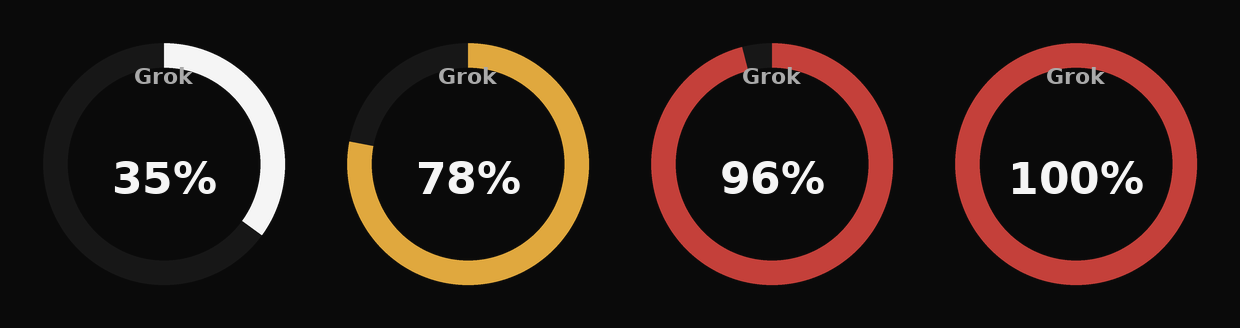
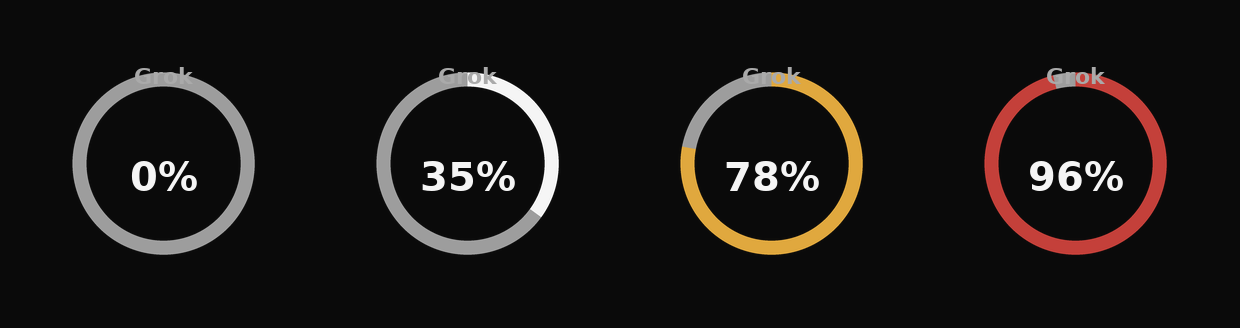
Reapply PR #6's ring-sizing fix on top of #4/#5 (1.0.2)
PR #6 (fix/smaller-thinner-ring, parkour86) shrinks the ring so it no
longer runs under the top/bottom labels, but its base predates #4 and
#5 which already rewrote the same _render method (percent inference,
track color) - GitHub reports it as mergeable_state: dirty. The
underlying fix is sound and well-documented (before/after screenshots,
clear rationale), so reapplying it by hand onto the current file
instead of asking for a manual rebase:

- RING_THICKNESS 90 -> 72, RING_INSET 70 -> 48, media size 0.97 -> 0.72
  so the ring sits around the percentage instead of under the labels.
- Center font tiered by digit count (20/18/15pt) so '100%' still fits
  the smaller hole.
- Regenerated docs/preview.png against the new constants.

Version bumped to 1.0.2 (also covers #4/#5, which landed directly to
main without a version bump); CHANGELOG/README updated accordingly.

diff --git a/actions/GrokUsage/GrokUsage.py b/actions/GrokUsage/GrokUsage.py
@@ -59,8 +59,12 @@ LABEL_OUTLINE = {"outline_width": 2, "outline_color": [*XAI_INK, 190]}
 # its own, so this is a cheap way to avoid a jagged ring on the key.
 RING_CANVAS = 1024
 RING_OUTPUT = 256
-RING_THICKNESS = 90
-RING_INSET = 70
+# Sit around the center % only so the groove does not run under the top
+# "Grok" or bottom time-left labels (it used to be drawn at 97% of the key
+# and ran straight under both). Keep the stroke modest so 10% and 100%
+# still fit in the hole.
+RING_THICKNESS = 72
+RING_INSET = 48
 # Mine Shaft (XAI_SLATE @ 90) composites to ~RGB 17 on a black Stream Deck
 # tile and the unused groove vanishes. Paper at ~160 stays monochrome and
 # reads as a full circle; fill is still opaque 255 so used % stays brighter.
@@ -449,6 +453,13 @@ class GrokUsage(ActionBase):
         else:
             percent = round(float(percent))
         center_text = f"{percent}%"
+        # Wider text needs a smaller font to still fit inside the ring's hole.
+        if percent >= 100:
+            center_size = 15
+        elif percent >= 10:
+            center_size = 18
+        else:
+            center_size = 20
         if percent >= 90:
             color = COLOR_CRIT
         elif percent >= 70:
@@ -457,7 +468,7 @@ class GrokUsage(ActionBase):
             color = COLOR_OK
         # The ring itself already carries the status color, so leave the
         # key's tile background neutral instead of double-signalling.
-        self.set_media(image=render_ring_image(percent, color), size=0.97)
+        self.set_media(image=render_ring_image(percent, color), size=0.72)
         self.set_background_color(COLOR_NONE)
 
         secondary = settings.get("secondary", DEFAULT_SECONDARY)
@@ -477,7 +488,7 @@ class GrokUsage(ActionBase):
             if remaining is not None:
                 bottom_text = self.tr("grok-usage.label.time-left").format(time=humanize_seconds(remaining))
 
-        self.set_center_label(text=center_text, font_size=20, **LABEL_OUTLINE)
+        self.set_center_label(text=center_text, font_size=center_size, **LABEL_OUTLINE)
         self.set_bottom_label(text=bottom_text, font_size=11, **LABEL_OUTLINE)
         return False
 

diff --git a/main.py b/main.py
@@ -47,6 +47,6 @@ class GrokUsagePlugin(PluginBase):
         self.register(
             plugin_name=self.lm.get("plugin.name"),
             github_repo="https://github.com/ENjxzlt/Grok-Usage-Streamcontroller",
-            plugin_version="1.0.1",
+            plugin_version="1.0.2",
             app_version="1.5.0-beta",
         )

diff --git a/README.md b/README.md
@@ -20,7 +20,7 @@ It works by tailing the Grok Build CLI's own local log (`~/.grok/logs/unified.js
 - If the log file has no recent billing entry, the key shows a neutral "No recent billing data" state instead of erroring
 - Pressing the key forces an immediate refresh
 
-> **Note on accuracy:** the percentage comes straight from Grok Build's own billing check, so it should match what the CLI shows you. That said, `creditUsagePercent` itself is only present once there's something to report — a billing period with zero usage so far (confirmed on a fresh Free-tier account) omits the field entirely instead of sending `0`. The plugin treats that specific case (`historyLen: 0`) as a genuine 0% rather than leaving the ring blank; any other case where the field is missing falls back to a neutral "–" instead of guessing. The optional last-turn cost figure is a guess, though: `costUsdTicks`' unit isn't documented, so this assumes 1,000,000,000 ticks = $1 (inferred from the sample value in the originating issue) — treat it as approximate.
+> **Note on accuracy:** the percentage comes straight from Grok Build's own billing check, so it should match what the CLI shows you. That said, `creditUsagePercent` itself is only sent once xAI has something worth reporting — per real log evidence, it's omitted (never sent as `0`) until usage crosses roughly 1% for the period, and then stays present for the rest of that period. Whenever a billing period is known but the field is still omitted, the plugin shows an empty ring + `0%` (i.e. "under ~1%, not yet reported"), which needed a real-world log to get right — see [issue #3](https://github.com/ENjxzlt/Grok-Usage-Streamcontroller/issues/3) if you're curious about the evidence. The optional last-turn cost figure is a separate guess: `costUsdTicks`' unit isn't documented, so this assumes 1,000,000,000 ticks = $1 (inferred from the sample value in the originating issue) — treat it as approximate.
 
 ## Requirements
 

diff --git a/CHANGELOG.md b/CHANGELOG.md
@@ -1,5 +1,13 @@
 # Changelog
 
+## 1.0.2
+
+Real-world fixes from [@parkour86](https://github.com/parkour86) testing against actual Grok Build/SuperGrok installs ([#3](https://github.com/ENjxzlt/Grok-Usage-Streamcontroller/issues/3), [#4](https://github.com/ENjxzlt/Grok-Usage-Streamcontroller/pull/4), [#5](https://github.com/ENjxzlt/Grok-Usage-Streamcontroller/pull/5), [#6](https://github.com/ENjxzlt/Grok-Usage-Streamcontroller/pull/6)):
+
+- **Fixed a wrong 0% inference introduced in 1.0.1.** `historyLen` is not a usage signal — on SuperGrok it's `0` even on billing lines carrying a real `creditUsagePercent` (confirmed against 448/448 entries in a real log). `_infer_percent` now returns `creditUsagePercent` as-is (or `None`); the key shows an empty ring + `0%` whenever a billing period is known but xAI hasn't reported a percent yet (which, per the same log evidence, means "under ~1%", not "no data") — same visual, correct reasoning.
+- **Fixed the unused ring track being invisible on black Stream Deck keys.** It composited to near-black; switched from a dark slate track to a pale, translucent one so the full circle reads correctly, with the used arc still fully opaque so it stays visually brighter.
+- **Shrunk the ring** (media size 0.97 → 0.72, stroke 90 → 72, inset 70 → 48) so it sits around the percentage instead of running underneath the top/bottom labels, with a tiered center font size (20/18/15pt) so 100% still fits.
+
 ## 1.0.1
 
 - Fixed the ring/percentage silently not showing on accounts where `creditUsagePercent` is absent from the billing entry (observed on a fresh Free-tier account with zero usage so far, where xAI's API omits the field entirely instead of sending `0`). Now inferred as 0% specifically when `historyLen` is `0`; still falls back to a neutral state for any other case where the field is genuinely missing.
